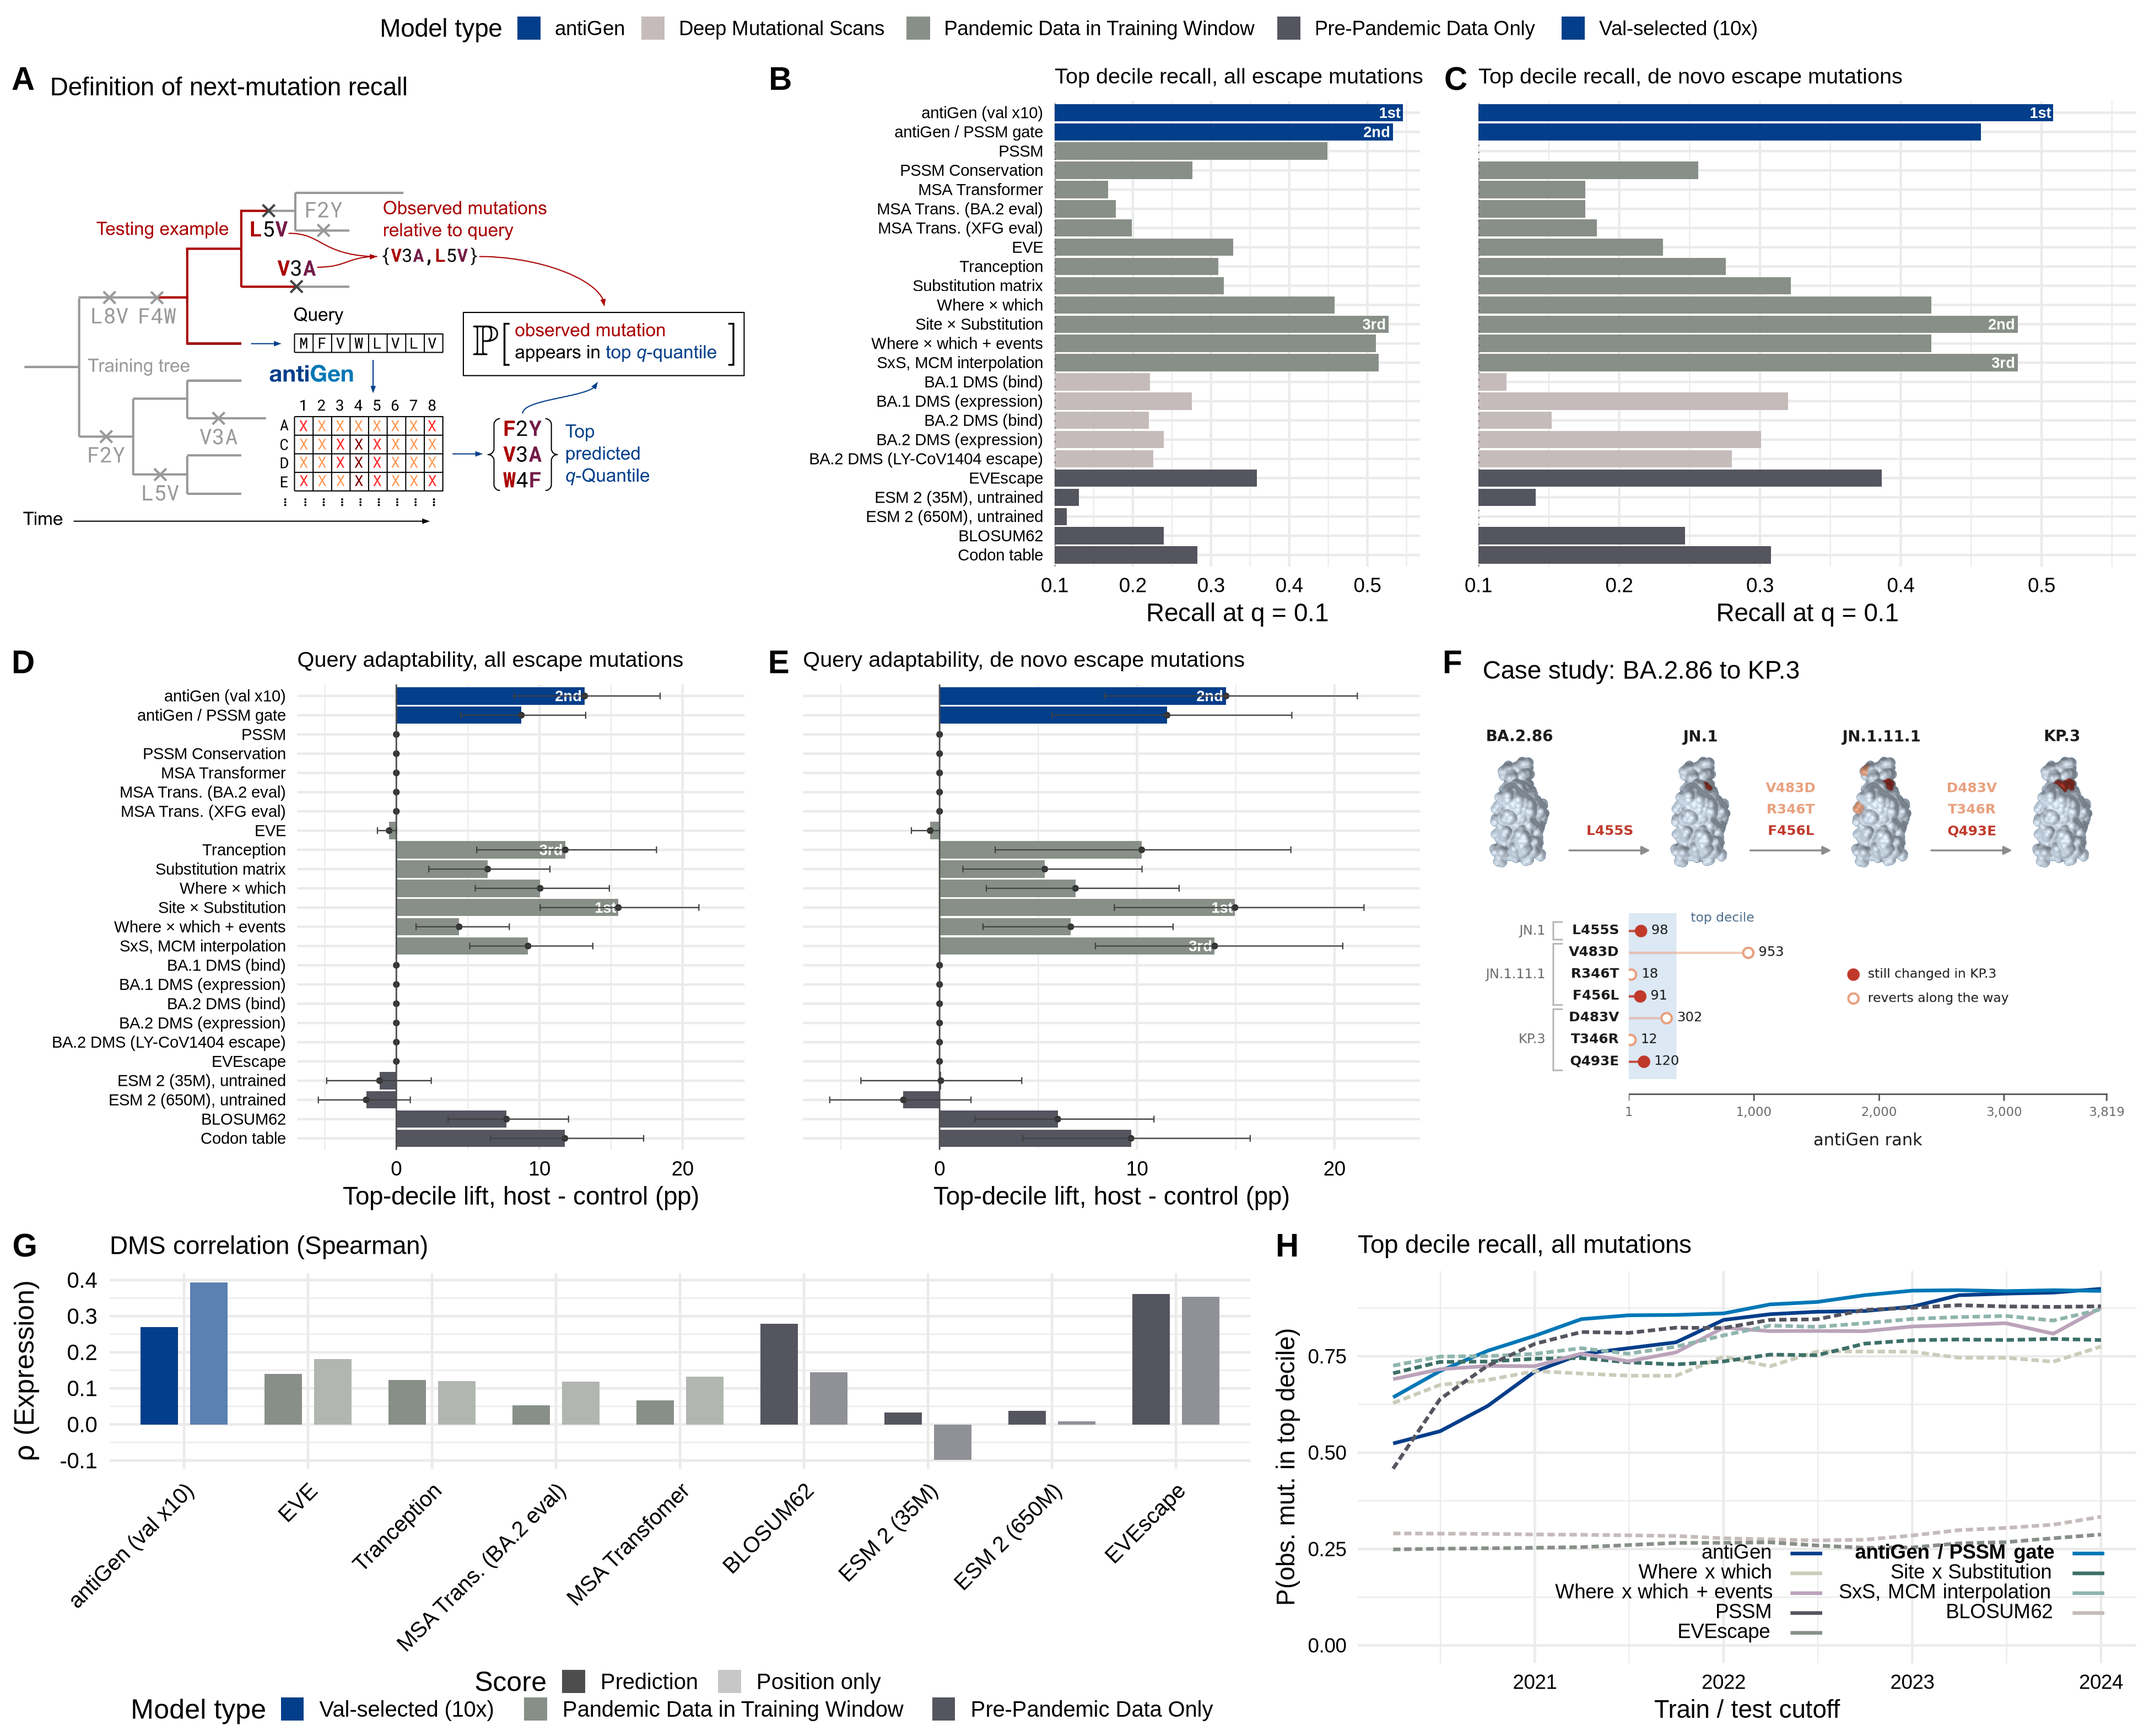
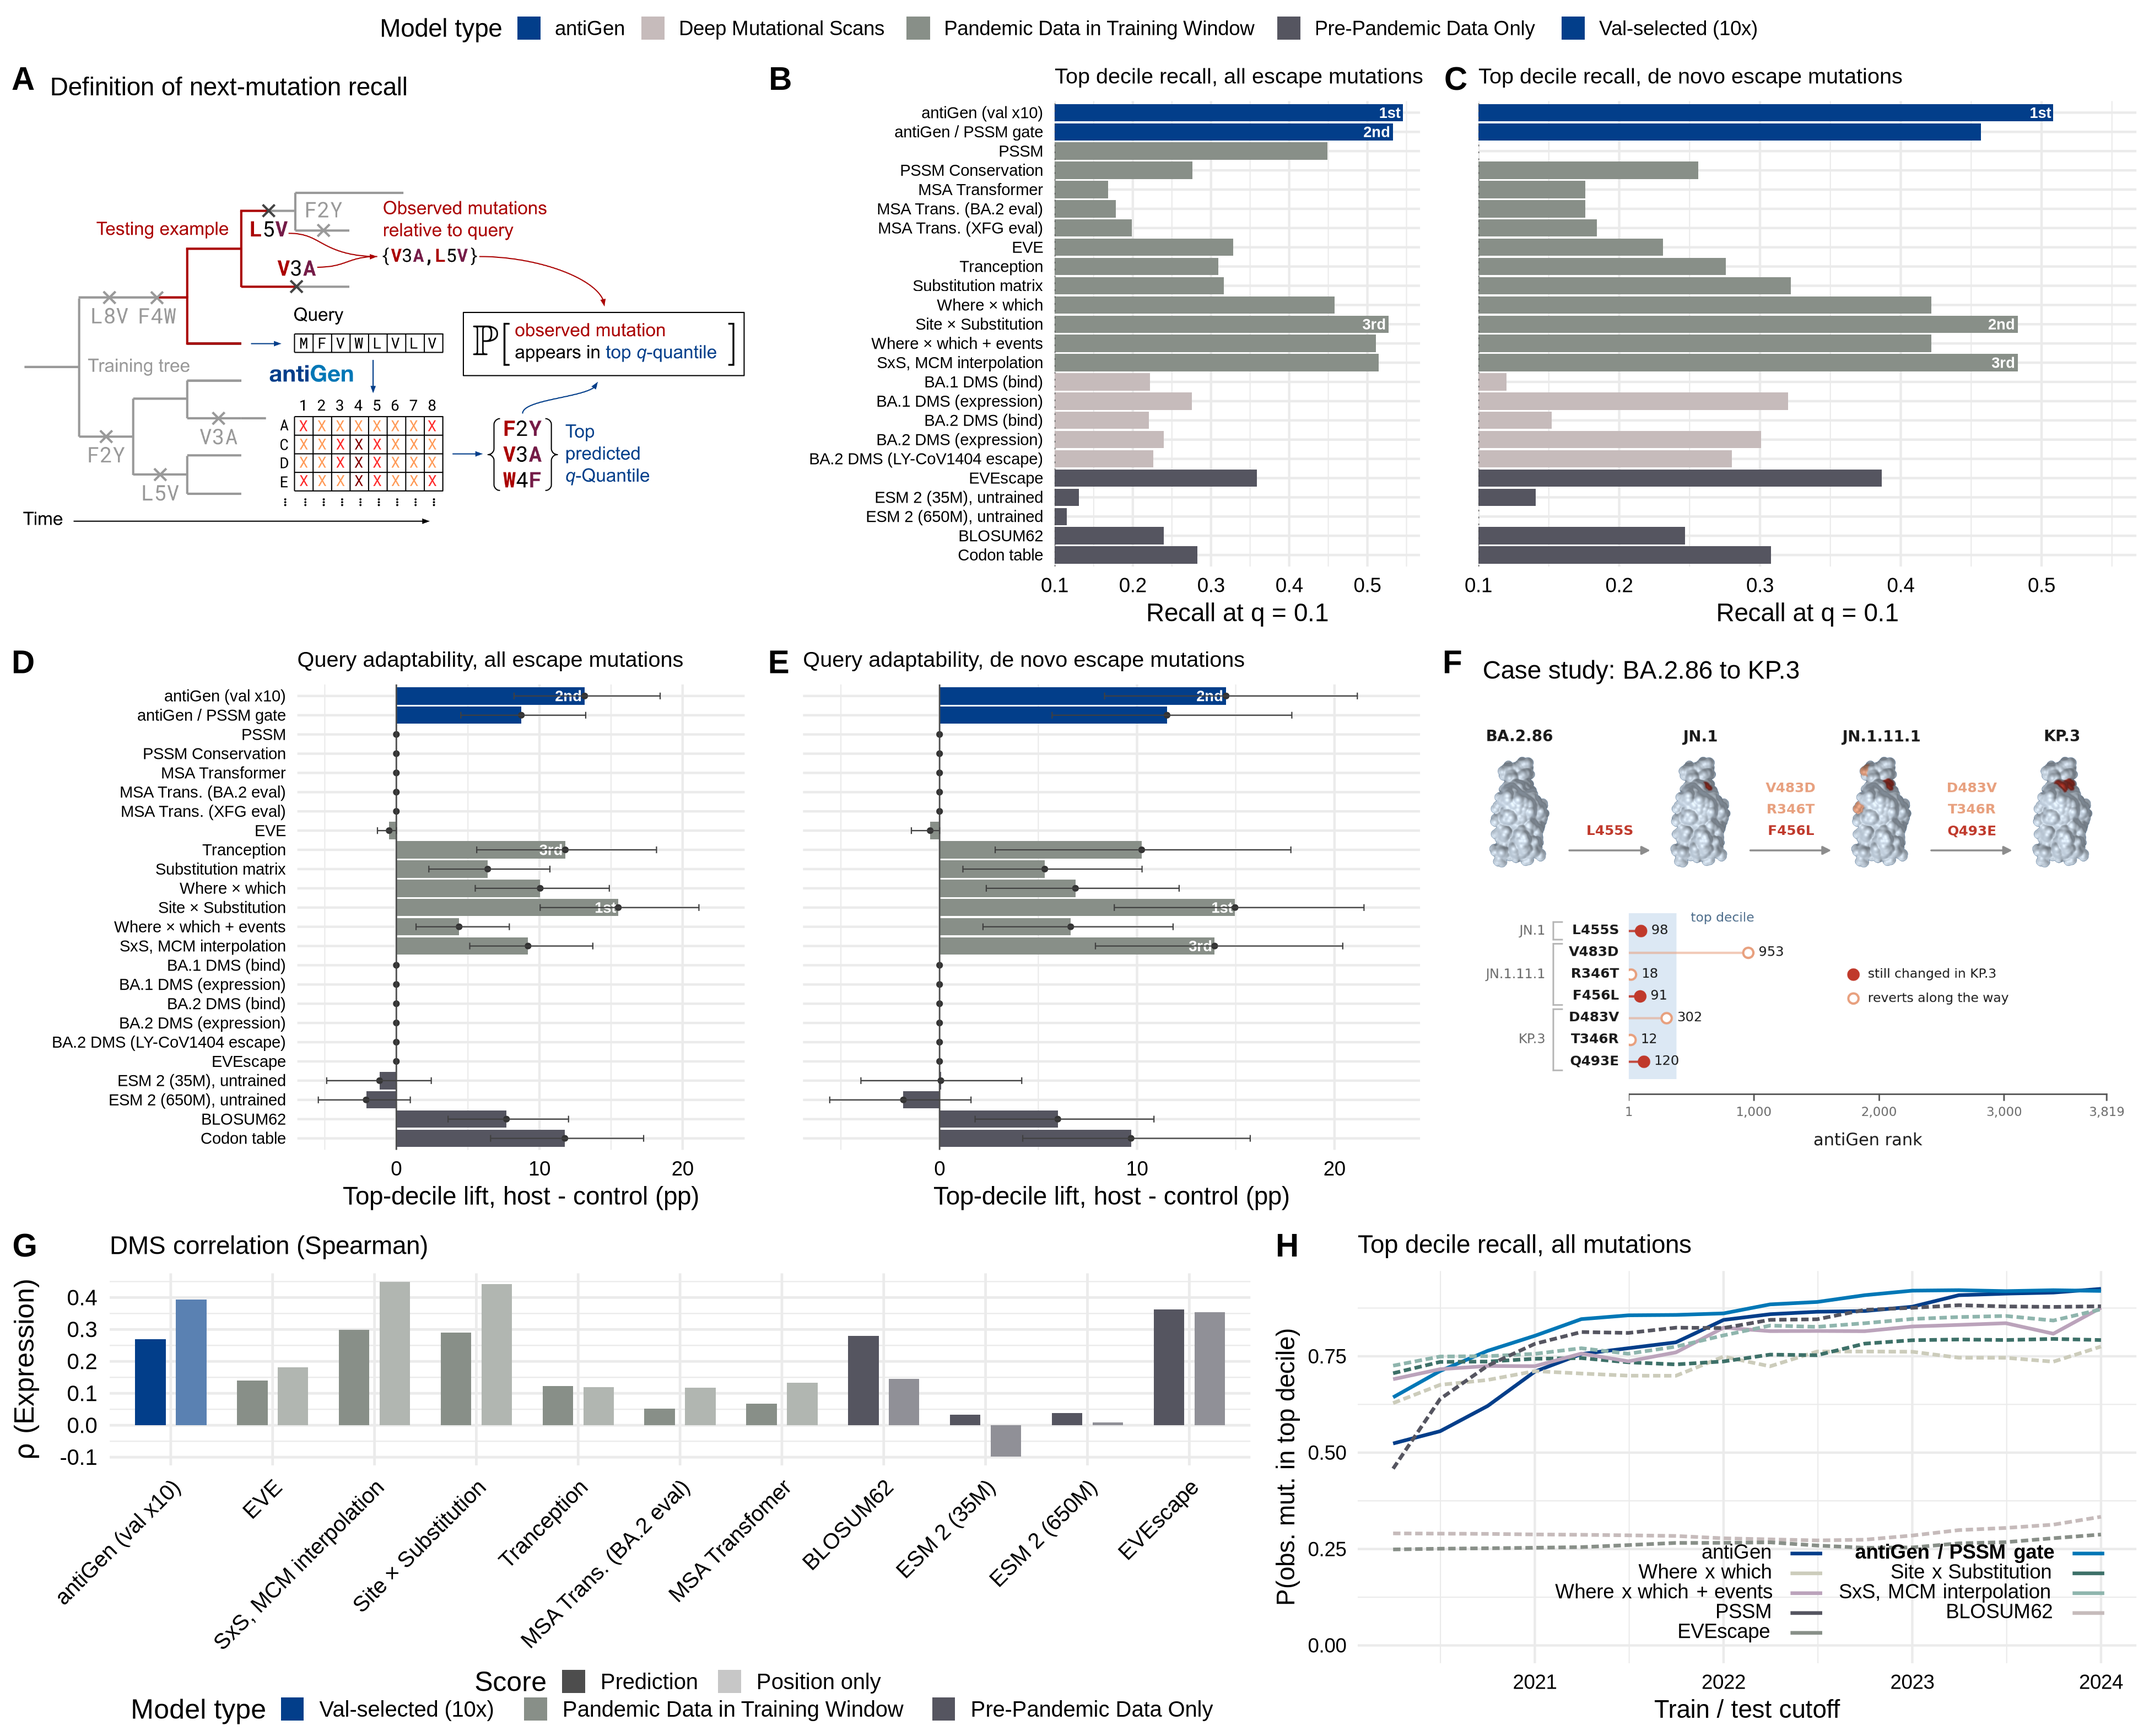
Add the two counted baselines to panel G (DMS correlation)
Panel G reads data/sc2_aa20/<model>/variant_root_predictions_*.csv -- one
(seq_len, 22) matrix per model at the variant root -- so a rung reaches it only
by having such a file. That is why where_times_which, which has an inventory
entry, has never appeared there.

No GPU needed: dump_variant_root_predictions.py rebuilds those from the
--dump-scores cache, because the variant root is already one of the cached
queries, and the list_macro runs cached both rungs. The dumper was checked
against a committed file first -- re-dumping simple_d128_n2_lr0.0001 reproduced
its published matrix over 4,020 finite cells at worst |delta| = 0.00e+00 with an
identical NaN pattern.

Both rungs also needed entries in subsets$pandemic_training_data AND
longform_names, positionally matched: the two vectors are parallel and
length-checked, and an unlisted model becomes a bar called "NA" in the antiGen
group.

  rung (expression, Spearman)   prediction   position-only
  Site x Substitution              0.291         0.442
  SxS, MCM interpolation           0.298         0.449
  antiGen                          0.261         0.337
  EVEscape                         0.362         0.354

Their POSITION-ONLY controls are the tallest bars on the panel, above every
model's actual prediction including EVEscape, and for both the control far
exceeds the prediction. That is the point rather than a surprise: SxS is
log s_i + log M[wt_i, a] and s_i IS a positional marginal, so the panel's own
[…]

diff --git a/experiments/multitree/NOTES.md b/experiments/multitree/NOTES.md
@@ -12050,3 +12050,58 @@ merge neither lost nor duplicated anything.
 
 RENDER ORDER AGAIN: coguk, revised, eventwtd, then `fig_sc2_aa20.R` LAST. All four
 `aa20_supp_*` PNGs verified byte-identical to HEAD afterwards.
+
+### Addendum 3: the counted rungs on panel G (DMS)
+
+Panel G reads `data/sc2_aa20/<model>/variant_root_predictions_*.csv` -- one (seq_len,
+22) matrix per model at the variant root -- so a rung reaches it only by having such a
+file. `where_times_which` has an inventory entry but NO such file, which is why it has
+never appeared there.
+
+**NO GPU.** `dump_variant_root_predictions.py` rebuilds those from the `--dump-scores`
+cache, because the variant root is already one of the cached queries. The list_macro
+runs used `--dump-scores`, so `site_substitution`, `mcm_interpolation` AND the gate
+were all already in `list_score_maps_aa20`.
+
+**The dumper was checked against a committed file first**: re-dumping
+`simple_d128_n2_lr0.0001` reproduced
+`data/sc2_aa20/simple_d128_n2_lr0.0001/variant_root_predictions_*.csv` over 4,020
+finite cells at worst |delta| = 0.00e+00, with an identical NaN pattern.
+
+Both rungs also needed entries in `subsets$pandemic_training_data` AND
+`longform_names`, POSITIONALLY matched -- the two vectors are parallel and
+length-checked, and an unlisted model becomes a bar called "NA" in the antiGen group.
+
+| rung (expression, Spearman) | prediction | position-only |
+|---|---|---|
+| Site x Substitution | 0.291 | **0.442** |
+| SxS, MCM interpolation | 0.298 | **0.449** |
+| antiGen | 0.261 | 0.337 |
+| EVEscape | 0.362 | 0.354 |
+
+**Their POSITION-ONLY controls are the tallest bars on the panel** -- above every
+model's actual prediction, EVEscape included -- and for both, position-only far exceeds
+the prediction. That is mechanically unsurprising and is the point: SxS is
+`log s_i + log M[wt_i, a]`, and `s_i` IS a positional marginal, so the panel's own
+position-only control recovers most of the signal while the substitution term actively
+costs it ~0.15 of rho. Read that way, these two rungs say the DMS panel's expression
+correlation is largely a positional effect.
+
+**A cross-check of mine disagreed and was WRONG.** A ten-line reimplementation of the
+correlation gave 0.150 for `site_substitution` and 0.286 for base antiGen, against the
+figure's 0.291 and 0.261. The figure's base-antiGen value matches the bar already
+published for it, so the drawer's pipeline is right and the reimplementation's
+wild-type masking is not -- it matched the reference against `colnames(expr)` where
+`mask_wildtype` uses `AMINO_ACIDS`. Recorded because the disagreement was resolved by
+checking which one reproduced a known published number, not by preferring the newer
+code.
+
+**`data/sc2_aa20/` IS NOT TRACKED, and that is pre-existing.** All 21 model
+directories under it are untracked, where `data/sc2` (the published arm) has 45 files
+committed -- so panel G cannot be rebuilt from a clone on this arm, and could not
+before this work either. The two new directories were deliberately NOT committed
+alone: `models <- list.files(MODEL_DIR)` would then find 2 of 21 in a fresh clone and
+render panel G with two bars and no error, which is worse than the present state of
+failing outright. Committing all 21 would close the gap and match the `data/sc2`
+precedent; it is left for a decision rather than taken here, since it is 19 files
+beyond this change.
